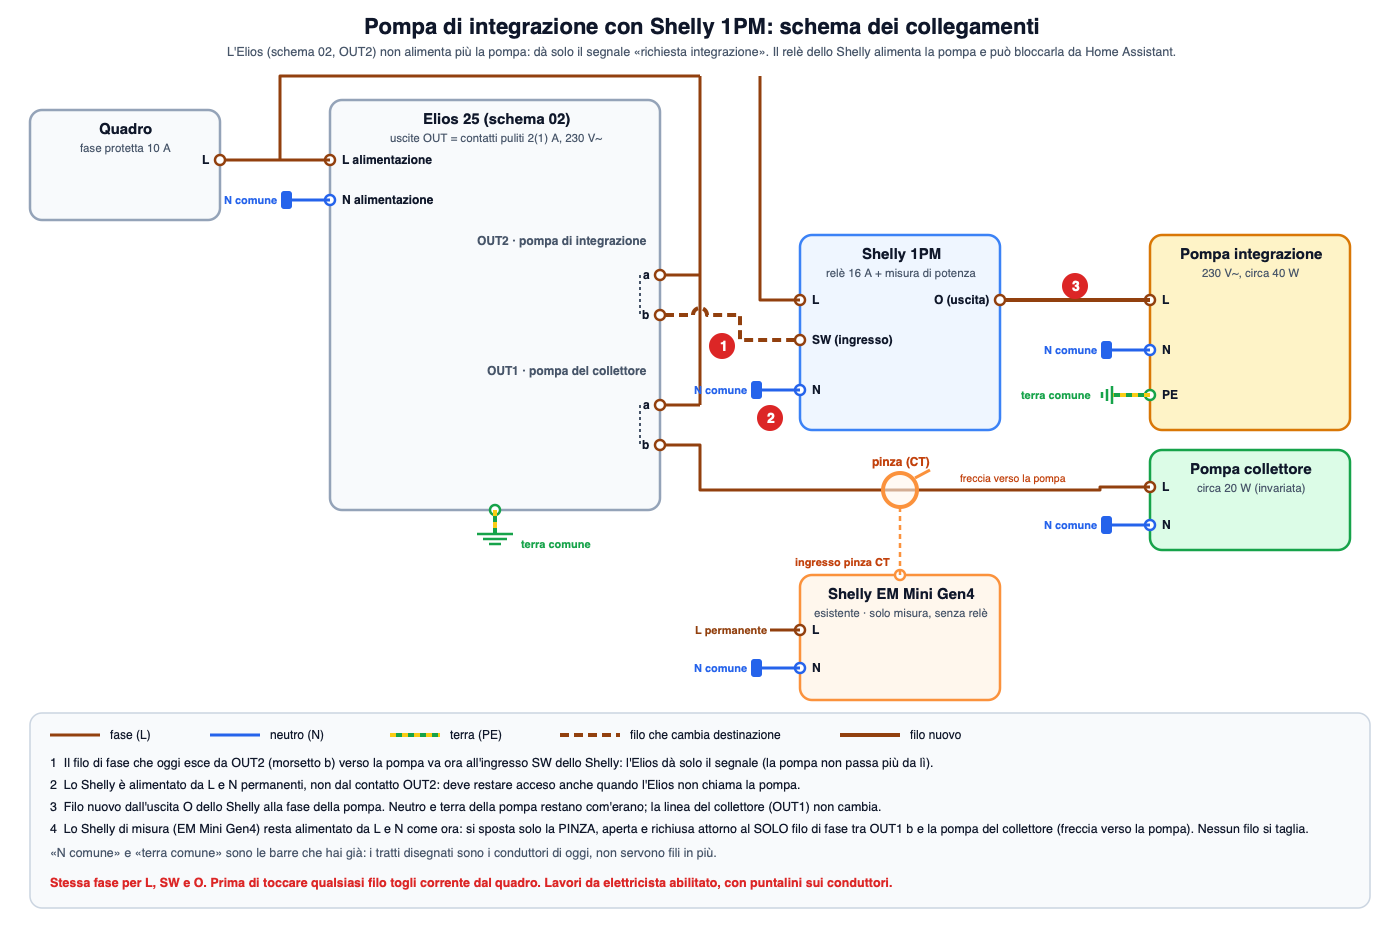
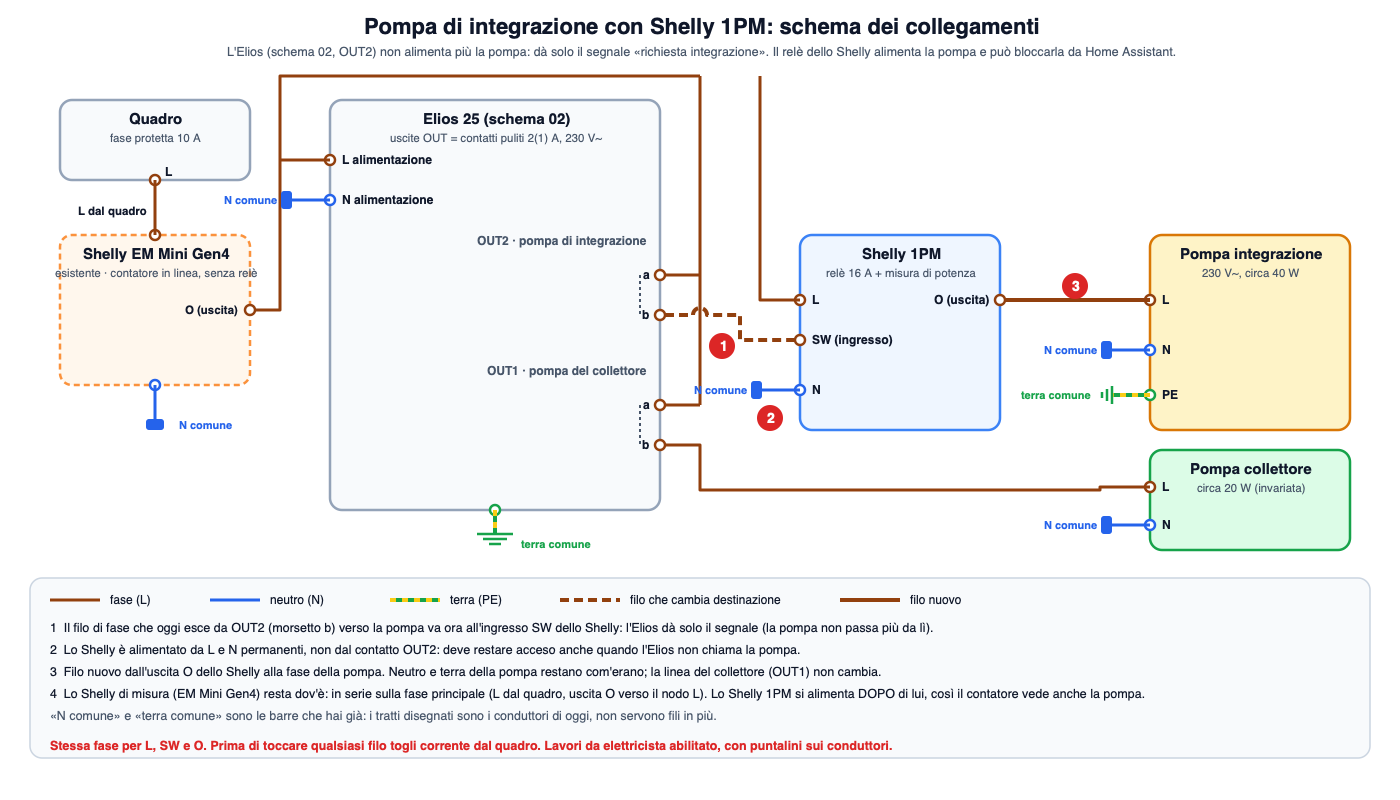
Schema: lo Shelly EM Mini Gen4 e' un contatore in linea, resta dov'e'
Corregge lo schema precedente (non ha la pinza). Collettore per differenza dal totale.

diff --git a/docs/genera_cablaggio.py b/docs/genera_cablaggio.py
@@ -1,7 +1,7 @@
 """Genera docs/schema-cablaggio.svg: Shelly 1PM sulla pompa di integrazione (OUT2 dell'Elios come segnale)."""
 import html
 
-W, H = 1400, 940
+W, H = 1400, 800
 o = []
 a = o.append
 BR, BL, GR, RED, INK, SUB = "#92400e", "#2563eb", "#16a34a", "#dc2626", "#0f172a", "#475569"
@@ -31,6 +31,11 @@ def n_stub(x, y, direction="l"):
     wire([(x, y), (x2, y)], BL)
     a(f'<rect x="{x2 - 11 if direction == "l" else x2}" y="{y - 9}" width="11" height="18" rx="3" fill="{BL}"/>')
     t(x2 - 16 if direction == "l" else x2 + 16, y + 4, "N comune", 11, "700", BL, "end" if direction == "l" else "start")
+
+def n_stub_down(x, y):
+    wire([(x, y), (x, y + 34)], BL)
+    a(f'<rect x="{x - 9}" y="{y + 34}" width="18" height="11" rx="3" fill="{BL}"/>')
+    t(x + 24, y + 44, "N comune", 11, "700", BL)
 
 def pe_stub(x, y, direction="d"):
     if direction == "d":
@@ -62,8 +67,14 @@ t(W / 2, 34, "Pompa di integrazione con Shelly 1PM: schema dei collegamenti", 22
 t(W / 2, 56, "L'Elios (schema 02, OUT2) non alimenta più la pompa: dà solo il segnale «richiesta integrazione». Il relè dello Shelly alimenta la pompa e può bloccarla da Home Assistant.", 12.5, fill=SUB, anchor="middle")
 
 # ---- quadro
-box(30, 110, 190, 110, "Quadro", sub="fase protetta 10 A")
-term(220, 160, "L", "r", BR)
+box(60, 100, 190, 80, "Quadro", sub="fase protetta 10 A")
+term(155, 180, "", "l", BR); t(165, 176, "L", 12, "700")
+box(60, 235, 190, 150, "Shelly EM Mini Gen4", fill="#fff7ed", stroke="#fb923c", sub="esistente · contatore in linea, senza relè", dash="6 4")
+term(155, 235, "", "l", BR); t(145, 215, "L dal quadro", 11.5, "700", anchor="end")
+term(250, 310, "", "r", BR); t(236, 314, "O (uscita)", 11.5, "700", anchor="end")
+term(155, 385, "", "l", BL)
+wire([(155, 180), (155, 235)])
+n_stub_down(155, 385)
 
 # ---- Elios
 box(330, 100, 330, 410, "Elios 25 (schema 02)", sub="uscite OUT = contatti puliti 2(1) A, 230 V~")
@@ -88,8 +99,8 @@ box(1150, 450, 200, 100, "Pompa collettore", fill="#dcfce7", stroke="#16a34a", s
 term(1150, 487, "L", "l", BR); term(1150, 525, "N", "l", BL)
 
 # ---- fili di fase
-wire([(225, 160), (330, 160)])
-wire([(280, 160), (280, 76), (700, 76)])
+wire([(255, 310), (280, 310), (280, 76), (700, 76)])
+wire([(280, 160), (330, 160)])
 wire([(700, 76), (700, 405)])
 wire([(700, 275), (665, 275)]); wire([(700, 405), (665, 405)])
 wire([(760, 76), (760, 300), (800, 300)])
@@ -99,18 +110,7 @@ path("M665 315 H693 a7 7 0 0 1 14 0 H740 V340 H800", dash="9 5", wd=4)
 wire([(1005, 300), (1150, 300)], wd=4)
 # OUT1 b -> misura -> pompa collettore
 wire([(665, 445), (700, 445), (700, 490), (1100, 490), (1100, 487), (1150, 487)])
-# pinza amperometrica attorno al solo filo di fase del collettore (nessun taglio)
-a('<circle cx="900" cy="490" r="17" fill="#fff7ed" fill-opacity="0.6" stroke="#fb923c" stroke-width="4"/>')
-a('<line x1="915" y1="478" x2="930" y2="470" stroke="#fb923c" stroke-width="3"/>')
-t(900, 466, "pinza (CT)", 12, "700", "#c2410c", "middle")
-t(960, 482, "freccia verso la pompa", 10.5, fill="#c2410c")
-box(800, 575, 200, 125, "Shelly EM Mini Gen4", fill="#fff7ed", stroke="#fb923c", sub="esistente · solo misura, senza relè")
-term(800, 630, "L", "l", BR); term(800, 668, "N", "l", BL)
-wire([(770, 630), (800, 630)]); t(765, 634, "L permanente", 11, "700", BR, "end")
-n_stub(800, 668, "l")
-term(900, 575, "", "l", "#fb923c")
-t(888, 566, "ingresso pinza CT", 11, "700", "#c2410c", "end")
-wire([(900, 507), (900, 575)], "#fb923c", dash="5 4", wd=2.5)
+
 # neutro e terra: tratti verso i morsetti comuni
 n_stub(330, 200, "l")
 pe_stub(495, 510, "d")
@@ -122,8 +122,8 @@ n_stub(1150, 525, "l")
 tag(722, 346, 1); tag(770, 418, 2); tag(1075, 286, 3)
 
 # ---- legenda
-ly = 735
-a(f'<rect x="30" y="{ly - 22}" width="1340" height="195" rx="12" fill="#f8fafc" stroke="#cbd5e1" stroke-width="1.5"/>')
+ly = 600
+a(f'<rect x="30" y="{ly - 22}" width="1340" height="180" rx="12" fill="#f8fafc" stroke="#cbd5e1" stroke-width="1.5"/>')
 wire([(50, ly), (100, ly)]); t(110, ly + 4, "fase (L)", 12)
 wire([(210, ly), (260, ly)], BL); t(270, ly + 4, "neutro (N)", 12)
 wire([(390, ly), (440, ly)], GR, wd=4); wire([(390, ly), (440, ly)], "#facc15", "6 6", 4); t(450, ly + 4, "terra (PE)", 12)
@@ -132,9 +132,9 @@ wire([(840, ly), (900, ly)], BR, wd=4); t(910, ly + 4, "filo nuovo", 12)
 t(50, ly + 32, "1  Il filo di fase che oggi esce da OUT2 (morsetto b) verso la pompa va ora all'ingresso SW dello Shelly: l'Elios dà solo il segnale (la pompa non passa più da lì).", 12.5)
 t(50, ly + 54, "2  Lo Shelly è alimentato da L e N permanenti, non dal contatto OUT2: deve restare acceso anche quando l'Elios non chiama la pompa.", 12.5)
 t(50, ly + 76, "3  Filo nuovo dall'uscita O dello Shelly alla fase della pompa. Neutro e terra della pompa restano com'erano; la linea del collettore (OUT1) non cambia.", 12.5)
-t(50, ly + 98, "4  Lo Shelly di misura (EM Mini Gen4) resta alimentato da L e N come ora: si sposta solo la PINZA, aperta e richiusa attorno al SOLO filo di fase tra OUT1 b e la pompa del collettore (freccia verso la pompa). Nessun filo si taglia.", 12.5)
-t(50, ly + 122, "«N comune» e «terra comune» sono le barre che hai già: i tratti disegnati sono i conduttori di oggi, non servono fili in più.", 12.5, fill=SUB)
-t(50, ly + 152, "Stessa fase per L, SW e O. Prima di toccare qualsiasi filo togli corrente dal quadro. Lavori da elettricista abilitato, con puntalini sui conduttori.", 12.5, "700", RED)
+t(50, ly + 98, "4  Lo Shelly di misura (EM Mini Gen4) resta dov'è: in serie sulla fase principale (L dal quadro, uscita O verso il nodo L). Lo Shelly 1PM si alimenta DOPO di lui, così il contatore vede anche la pompa.", 12.5)
+t(50, ly + 120, "«N comune» e «terra comune» sono le barre che hai già: i tratti disegnati sono i conduttori di oggi, non servono fili in più.", 12.5, fill=SUB)
+t(50, ly + 150, "Stessa fase per L, SW e O. Prima di toccare qualsiasi filo togli corrente dal quadro. Lavori da elettricista abilitato, con puntalini sui conduttori.", 12.5, "700", RED)
 a('</svg>')
 open("docs/schema-cablaggio.svg", "w").write("\n".join(o))
 print("ok")

diff --git a/docs/MEMORIA.md b/docs/MEMORIA.md
@@ -112,6 +112,7 @@ flowchart TD
 | Modello di partenza (usato con meno di 3 punti) | `input_number.boiler_solare_t_ambiente` (16), `..._k_alto` (0,766), `..._k_basso` (0,73); `..._delta_alto` / `..._delta_basso` (0) per ritocchi fini |
 | Stato e puffer della Polygon | `sensor.casale_stato`, `sensor.casale_temperatura_boiler` (= puffer da 50 L), `sensor.casale_temperatura_acqua` |
 | Accensione / spegnimento | `climate.casale_acqua` (heat / off) |
+| Misura della potenza | Lo **Shelly EM Mini Gen4** (esistente) è un contatore in linea (morsetti L, N, due O collegate, senza pinza né relè, fino a 16 A) in serie sulla fase che alimenta Elios e pompe: misura tutto. Con lo Shelly 1PM sull'integrazione: collettore = totale − integrazione − consumo a riposo. |
 | Pompe della centralina solare | `sensor.garage_centralina_solare_pompe_potenza` misura **tutta la centralina**: sotto 10 W pompe ferme, fino a 26 W solo collettore, 26-55 W solo integrazione (30-40 W attesi, da verificare), da 55 W entrambe. Stato in `sensor.caldaia_centralina_solare_pompe_stato`, `binary_sensor.caldaia_pompa_integrazione_attiva` e `..._collettore_attiva`; sulla scheda il tratteggio bianco scorre dentro la serpentina (integrazione in alto, collettore in basso) e sotto compare «pompa integrazione» o «pompa collettore»; i tubi dal puffer sono fissi |
 | Pellet | `binary_sensor.casale_riserva_legna` (riserva), `binary_sensor.casale_pellet_empty` (vuoto), `binary_sensor.casale_pellet_hopper_open` (serbatoio aperto): sulla scheda la tramoggia della stufa cambia colore (verde ok, arancione riserva, rosso vuoto, blu aperto) e c'è la riga «Pellet» |
 | Programmi (N = 1..4) | `time.casale_crono_pN_accensione`, `..._spegnimento`, `number.casale_crono_pN_setpoint_boiler`, `..._setpoint_acqua`, `switch.casale_crono_pN_<giorno>`, `switch.casale_cronotermostato_settimanale` |
